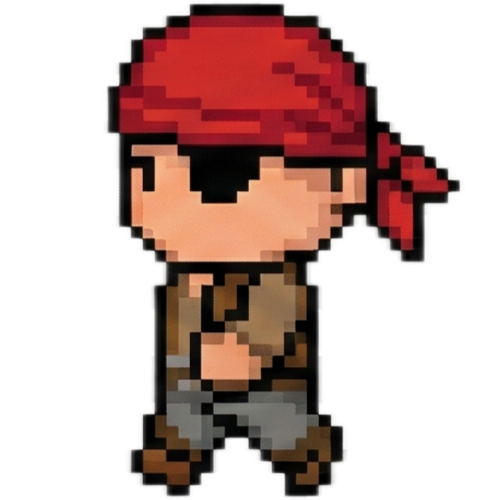
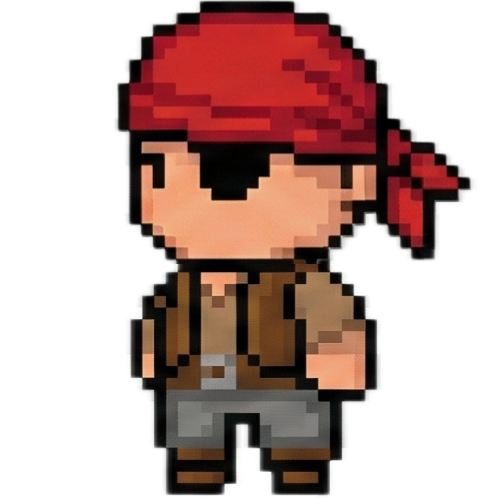
Improving rendering performance.

Changed region(s): [[0.21, 0.0, 0.96, 1.0]]

diff --git a/src/tile/TileManager.java b/src/tile/TileManager.java
@@ -1,9 +1,11 @@
 package tile;
 
 import main.GamePanel;
+import main.UtilityTool;
 
 import javax.imageio.ImageIO;
 import java.awt.*;
+import java.awt.image.BufferedImage;
 import java.io.BufferedReader;
 import java.io.InputStream;
 import java.io.InputStreamReader;
@@ -24,37 +26,25 @@ public class TileManager {
         loadMap("/maps/world02.txt");
     }
 
-    public void getTileImage() {
+    public void getTileImage()
+    {
+        setup(0, "grass", false);
+        setup(1, "water", true);
+        setup(2, "sand", false);
+        setup(3, "wood_wall", true);
+        setup(4, "wood_floor", false);
+        setup(5, "stone_wall", true);
+        setup(6, "tree", true);
+        setup(7, "earth", false);
+    }
 
+    public void setup(int index, String imageName, boolean collision) {
+        UtilityTool uTool = new UtilityTool();
         try {
-            tile[0] = new Tile();
-            tile[0].image = ImageIO.read(Objects.requireNonNull(getClass().getResourceAsStream("/tiles/grass.png")));
-
-            tile[1] = new Tile();
-            tile[1].image = ImageIO.read(Objects.requireNonNull(getClass().getResourceAsStream("/tiles/water.png")));
-            tile[1].collision = true;
-
-            tile[2] = new Tile();
-            tile[2].image = ImageIO.read(Objects.requireNonNull(getClass().getResourceAsStream("/tiles/sand.png")));
-
-            tile[3] = new Tile();
-            tile[3].image = ImageIO.read(Objects.requireNonNull(getClass().getResourceAsStream("/tiles/wood_wall.png")));
-            tile[3].collision = true;
-
-            tile[4] = new Tile();
-            tile[4].image = ImageIO.read(Objects.requireNonNull(getClass().getResourceAsStream("/tiles/wood_floor.png")));
-
-            tile[5] = new Tile();
-            tile[5].image = ImageIO.read(Objects.requireNonNull(getClass().getResourceAsStream("/tiles/stone_wall.png")));
-            tile[5].collision = true;
-
-            tile[6] = new Tile();
-            tile[6].image = ImageIO.read(Objects.requireNonNull(getClass().getResourceAsStream("/tiles/tree.png")));
-            tile[6].collision = true;
-
-            tile[7] = new Tile();
-            tile[7].image = ImageIO.read(Objects.requireNonNull(getClass().getResourceAsStream("/tiles/earth.png")));
-
+            tile[index] = new Tile();
+            tile[index].image = ImageIO.read(Objects.requireNonNull(getClass().getResourceAsStream("/tiles/" + imageName + ".png")));
+            tile[index].image = uTool.scaleImage(tile[index].image, gp.tileSize, gp.tileSize);
+            tile[index].collision = collision;
 
         } catch (Exception e) {
             e.printStackTrace();
@@ -108,7 +98,7 @@ public class TileManager {
                 worldY > gp.player.worldY - gp.player.screenY - gp.tileSize &&
                 worldY < gp.player.worldY + gp.player.screenY + gp.tileSize)
             {
-                g2.drawImage(tile[tileNum].image, screenX, screenY, gp.tileSize, gp.tileSize, null);
+                g2.drawImage(tile[tileNum].image, screenX, screenY, null);
             }
             worldCol++;
             if (worldCol == gp.maxWorldCol) {

diff --git a/src/entity/Player.java b/src/entity/Player.java
@@ -2,6 +2,7 @@ package entity;
 
 import main.GamePanel;
 import main.KeyHandler;
+import main.UtilityTool;
 
 import javax.imageio.ImageIO;
 import java.awt.*;
@@ -45,20 +46,26 @@ public class Player extends Entity {
     }
 
     public void getPlayerImage() {
-        try{
-            up1 = ImageIO.read(Objects.requireNonNull(getClass().getResourceAsStream("/player/boy_up_1.png")));
-            up2 = ImageIO.read(Objects.requireNonNull(getClass().getResourceAsStream("/player/boy_up_2.png")));
-            down1 = ImageIO.read(Objects.requireNonNull(getClass().getResourceAsStream("/player/boy_down_1.png")));
-            down2 = ImageIO.read(Objects.requireNonNull(getClass().getResourceAsStream("/player/boy_down_2.png")));
-            left1 = ImageIO.read(Objects.requireNonNull(getClass().getResourceAsStream("/player/boy_left_1.png")));
-            left2 = ImageIO.read(Objects.requireNonNull(getClass().getResourceAsStream("/player/boy_left_2.png")));
-            right1 = ImageIO.read(Objects.requireNonNull(getClass().getResourceAsStream("/player/boy_right_1.png")));
-            right2 = ImageIO.read(Objects.requireNonNull(getClass().getResourceAsStream("/player/boy_right_2.png")));
+        up1 = setup("boy_up_1");
+        up2 = setup("boy_up_2");
+        down1 = setup("boy_down_1");
+        down2 = setup("boy_down_2");
+        left1 = setup("boy_left_1");
+        left2 = setup("boy_left_2");
+        right1 = setup("boy_right_1");
+        right2 = setup("boy_right_2");
+    }
 
-        }
-        catch (IOException e){
+    public BufferedImage setup(String imageName) {
+        UtilityTool uT = new UtilityTool();
+        BufferedImage image = null;
+        try {
+            image = ImageIO.read(Objects.requireNonNull(getClass().getResourceAsStream("/player/" + imageName + ".png")));
+            image = uT.scaleImage(image, gp.tileSize, gp.tileSize);
+        } catch (IOException e) {
             e.printStackTrace();
         }
+        return image;
     }
 
     public void update() {
@@ -110,6 +117,13 @@ public class Player extends Entity {
                 } else if (spriteNum == 2) {
                     spriteNum = 1;
                 }
+                spriteCounter = 0;
+            }
+        }
+        else {
+            spriteCounter++;
+            if (spriteCounter > 20) {
+                spriteNum = 1;
                 spriteCounter = 0;
             }
         }
@@ -194,6 +208,6 @@ public class Player extends Entity {
                 break;
         }
 
-        g2.drawImage(image, screenX, screenY, gp.tileSize, gp.tileSize, null);
+        g2.drawImage(image, screenX, screenY, null);
     }
 }

diff --git a/src/main/AssetSetter.java b/src/main/AssetSetter.java
@@ -13,27 +13,27 @@ public class AssetSetter {
     }
 
     public void setObject() {
-        gp.obj[0] = new OBJ_Key();
+        gp.obj[0] = new OBJ_Key(gp);
         gp.obj[0].worldX = gp.tileSize * 12;
         gp.obj[0].worldY = gp.tileSize * 51;
 
-        gp.obj[1] = new OBJ_Key();
+        gp.obj[1] = new OBJ_Key(gp);
         gp.obj[1].worldX = gp.tileSize * 50;
         gp.obj[1].worldY = gp.tileSize * 65;
 
-        gp.obj[2] = new OBJ_Door();
+        gp.obj[2] = new OBJ_Door(gp);
         gp.obj[2].worldX = gp.tileSize * 63;
         gp.obj[2].worldY = gp.tileSize * 42;
 
-        gp.obj[3] = new OBJ_Door();
+        gp.obj[3] = new OBJ_Door(gp);
         gp.obj[3].worldX = gp.tileSize * 63;
         gp.obj[3].worldY = gp.tileSize * 46;
 
-        gp.obj[4] = new OBJ_Chest();
+        gp.obj[4] = new OBJ_Chest(gp);
         gp.obj[4].worldX = gp.tileSize * 63;
         gp.obj[4].worldY = gp.tileSize * 39;
 
-        gp.obj[5] = new OBJ_Boots();
+        gp.obj[5] = new OBJ_Boots(gp);
         gp.obj[5].worldX = gp.tileSize * 43;
         gp.obj[5].worldY = gp.tileSize * 50;
     }

diff --git a/src/main/GamePanel.java b/src/main/GamePanel.java
@@ -100,6 +100,13 @@ public class GamePanel extends JPanel implements Runnable {
         super.paintComponent(g);
         Graphics2D g2 = (Graphics2D) g;
 
+        // Debug for see how long it takes to draw
+        long drawStart = 0;
+        if (keyH.debug == true)
+            drawStart = System.nanoTime();
+
+
+
         //Tile
         tileM.draw(g2);
         //Object
@@ -113,6 +120,16 @@ public class GamePanel extends JPanel implements Runnable {
 
         //UI
         ui.draw(g2);
+
+
+        // Debug
+        if (keyH.debug == true) {
+            long drawEnd = System.nanoTime();
+            long passed = drawEnd - drawStart;
+            g2.setColor(Color.white);
+            g2.drawString("Draw Time: " + passed, 10, 400);
+            System.out.println("Draw Time: " + passed);
+        }
 
         g2.dispose();
     }

diff --git a/src/main/KeyHandler.java b/src/main/KeyHandler.java
@@ -6,6 +6,9 @@ import java.awt.event.KeyListener;
 public class KeyHandler implements KeyListener {
     public boolean upPressed, downPressed, leftPressed, rightPressed;
 
+    //debug
+    public boolean debug = false;
+
     @Override
     public void keyTyped(KeyEvent e) {}
 
@@ -24,6 +27,14 @@ public class KeyHandler implements KeyListener {
         }
         if (code == KeyEvent.VK_D) {
             rightPressed = true;
+        }
+
+        //Debug for seeing how long it takes to draw
+        if (code == KeyEvent.VK_T) {
+            if (debug)
+                debug = false;
+            else
+                debug = true;
         }
     }
 

diff --git a/src/object/OBJ_Door.java b/src/object/OBJ_Door.java
@@ -1,14 +1,20 @@
 package object;
 
+import main.GamePanel;
+
 import javax.imageio.ImageIO;
 
 public class OBJ_Door extends SuperObject
 {
-    public OBJ_Door() {
+    GamePanel gp;
+
+    public OBJ_Door(GamePanel gp) {
+        this.gp = gp;
         name = "Door";
         try {
             image = ImageIO.read(getClass().getResourceAsStream("/objects/door.png"));
             collision = true;
+            uTool.scaleImage(image, gp.tileSize, gp.tileSize);
         } catch (Exception e) {
             e.printStackTrace();
         }

diff --git a/src/object/OBJ_Chest.java b/src/object/OBJ_Chest.java
@@ -1,11 +1,18 @@
 package object;
 
+import main.GamePanel;
+
 public class OBJ_Chest extends SuperObject {
-    public OBJ_Chest() {
+
+    GamePanel gp;
+
+    public OBJ_Chest(GamePanel gp) {
+        this.gp = gp;
         name = "Chest";
         try {
             image = javax.imageio.ImageIO.read(getClass().getResourceAsStream("/objects/chest.png"));
             collision = true;
+            uTool.scaleImage(image, gp.tileSize, gp.tileSize);
         } catch (Exception e) {
             e.printStackTrace();
         }

diff --git a/src/object/OBJ_Key.java b/src/object/OBJ_Key.java
@@ -1,12 +1,19 @@
 package object;
 
+import main.GamePanel;
+import main.UtilityTool;
+
 import javax.imageio.ImageIO;
 
 public class OBJ_Key extends SuperObject{
-    public OBJ_Key(){
+    GamePanel gp;
+
+    public OBJ_Key(GamePanel gp) {
+        this.gp = gp;
         name = "Key";
         try {
             image = ImageIO.read(getClass().getResourceAsStream("/objects/key.png"));
+            uTool.scaleImage(image, gp.tileSize, gp.tileSize);
         } catch (Exception e) {
             e.printStackTrace();
         }

diff --git a/src/object/OBJ_Boots.java b/src/object/OBJ_Boots.java
@@ -1,13 +1,19 @@
 package object;
 
+import main.GamePanel;
+
 import javax.imageio.ImageIO;
 
 public class OBJ_Boots extends SuperObject{
 
-    public OBJ_Boots(){
+    GamePanel gp;
+
+    public OBJ_Boots(GamePanel gp) {
+        this.gp = gp;
         name = "Boots";
         try {
             image = ImageIO.read(getClass().getResourceAsStream("/objects/boots.png"));
+            uTool.scaleImage(image, gp.tileSize, gp.tileSize);
         } catch (Exception e) {
             e.printStackTrace();
         }

diff --git a/src/object/SuperObject.java b/src/object/SuperObject.java
@@ -1,6 +1,7 @@
 package object;
 
 import main.GamePanel;
+import main.UtilityTool;
 
 import java.awt.*;
 import java.awt.image.BufferedImage;
@@ -13,6 +14,7 @@ public class SuperObject {
     public Rectangle solidArea = new Rectangle(0, 0, 60, 60);
     public int solidAreaDefaultX = 0;
     public int solidAreaDefaultY = 0;
+    UtilityTool uTool = new UtilityTool();
 
     public void draw(Graphics2D g2, GamePanel gp) {
         int screenX = worldX - gp.player.worldX + gp.player.screenX;

diff --git a/src/main/UtilityTool.java b/src/main/UtilityTool.java
@@ -1,0 +1,15 @@
+package main;
+
+import java.awt.*;
+import java.awt.image.BufferedImage;
+
+public class UtilityTool {
+    public BufferedImage scaleImage (BufferedImage original, int width, int height)
+    {
+        BufferedImage scaledImage = new BufferedImage(width, height, original.getType());
+        Graphics2D g2d = scaledImage.createGraphics();
+        g2d.drawImage(original, 0, 0, width, height, null);
+        g2d.dispose();
+        return scaledImage;
+    }
+}

diff --git a/src/main/UI.java b/src/main/UI.java
@@ -23,7 +23,7 @@ public class UI {
 
         consolas_40 = new Font("Consolas", Font.PLAIN, 40);
         consolas_80B = new Font("Consolas", Font.BOLD, 80);
-        OBJ_Key key = new OBJ_Key();
+        OBJ_Key key = new OBJ_Key(gp);
         keyImage = key.image;
     }
 
